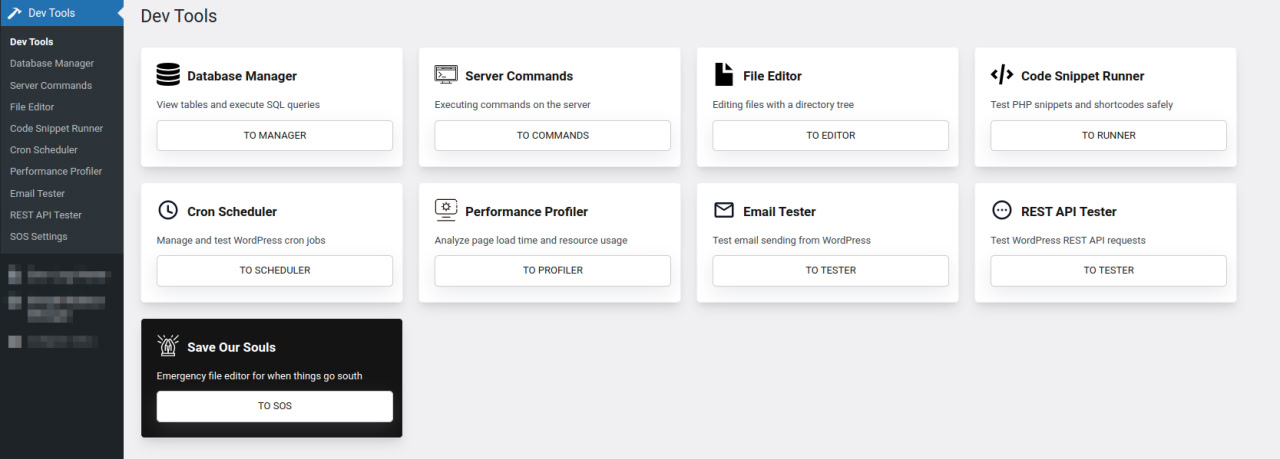
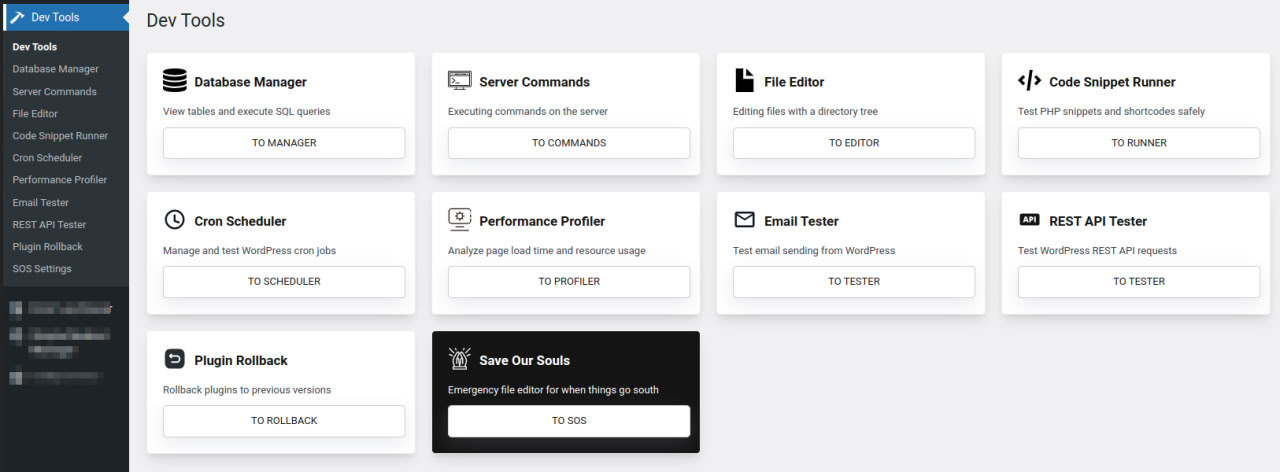
new rollback tool

diff --git a/includes/plugin-rollback/plugin-rollback.php b/includes/plugin-rollback/plugin-rollback.php
@@ -1,0 +1,191 @@
+<?php
+if (!defined('ABSPATH')) {
+    exit;
+}
+
+function dev_tools_plugin_rollback_page() {
+    if (!current_user_can('manage_options')) {
+        return;
+    }
+
+    $message = '';
+    $rollback_logs = get_option('dev_tools_rollback_logs', []);
+
+    if ($_SERVER['REQUEST_METHOD'] === 'POST' && isset($_POST['rollback_action']) && wp_verify_nonce($_POST['rollback_nonce'], 'rollback_action')) {
+        $plugin_slug = sanitize_text_field($_POST['plugin_slug']);
+        $version = sanitize_text_field($_POST['version']);
+
+        $plugins = get_plugins();
+        $plugin_file = '';
+        foreach ($plugins as $file => $data) {
+            if (strpos($file, $plugin_slug . '/') === 0) {
+                $plugin_file = $file;
+                break;
+            }
+        }
+
+        if ($plugin_file && $version) {
+            $api_url = "https://api.wordpress.org/plugins/info/1.0/$plugin_slug.json";
+            $response = wp_remote_get($api_url);
+            if (!is_wp_error($response) && wp_remote_retrieve_response_code($response) === 200) {
+                $plugin_data = json_decode(wp_remote_retrieve_body($response), true);
+                if (isset($plugin_data['versions'][$version])) {
+                    $download_url = $plugin_data['versions'][$version];
+                    $result = dev_tools_install_plugin_version($download_url, $plugin_file);
+                    if ($result) {
+                        $message = '<div class="updated"><p>Plugin rolled back to version ' . esc_html($version) . '!</p></div>';
+                        $rollback_logs[] = [
+                            'plugin' => $plugin_file,
+                            'from_version' => $plugins[$plugin_file]['Version'],
+                            'to_version' => $version,
+                            'time' => current_time('mysql')
+                        ];
+                        update_option('dev_tools_rollback_logs', array_slice($rollback_logs, -10));
+                    } else {
+                        $message = '<div class="error"><p>Failed to rollback plugin.</p></div>';
+                    }
+                } else {
+                    $message = '<div class="error"><p>Version not found.</p></div>';
+                }
+            } else {
+                $message = '<div class="error"><p>Could not fetch plugin data.</p></div>';
+            }
+        }
+    }
+
+    $plugins = get_plugins();
+    ?>
+    <div class="wrap">
+        <h1>Plugin Rollback</h1>
+        <p>Rollback plugins to previous versions.</p>
+        <?php if ($message) echo $message; ?>
+
+        <div class="tool-card" style="width: 100%; max-width: 100%;">
+            <div class="tool-card-header">
+                <div class="tool-card-ico"></div>
+                <h2>Installed Plugins</h2>
+            </div>
+            <div class="rollback-plugins">
+                <table class="wp-list-table widefat fixed striped">
+                    <thead>
+                        <tr>
+                            <th>Plugin</th>
+                            <th>Current Version</th>
+                            <th>Rollback To</th>
+                            <th>Action</th>
+                        </tr>
+                    </thead>
+                    <tbody>
+                        <?php
+                        foreach ($plugins as $file => $data) {
+                            $slug = explode('/', $file)[0];
+                            $api_url = "https://api.wordpress.org/plugins/info/1.0/$slug.json";
+                            $response = wp_remote_get($api_url);
+                            $versions = [];
+                            if (!is_wp_error($response) && wp_remote_retrieve_response_code($response) === 200) {
+                                $plugin_data = json_decode(wp_remote_retrieve_body($response), true);
+                                $versions = isset($plugin_data['versions']) ? array_keys($plugin_data['versions']) : [];
+                                usort($versions, 'version_compare');
+                                $versions = array_reverse($versions);
+                            }
+                            ?>
+                            <tr>
+                                <td><?php echo esc_html($data['Name']); ?></td>
+                                <td><?php echo esc_html($data['Version']); ?></td>
+                                <td>
+                                    <form method="post">
+                                        <?php wp_nonce_field('rollback_action', 'rollback_nonce'); ?>
+                                        <input type="hidden" name="rollback_action" value="rollback">
+                                        <input type="hidden" name="plugin_slug" value="<?php echo esc_attr($slug); ?>">
+                                        <select name="version">
+                                            <option value="">Select version</option>
+                                            <?php
+                                            foreach ($versions as $ver) {
+                                                if ($ver !== $data['Version']) {
+                                                    echo '<option value="' . esc_attr($ver) . '">' . esc_html($ver) . '</option>';
+                                                }
+                                            }
+                                            ?>
+                                        </select>
+                                </td>
+                                <td>
+                                        <input type="submit" class="tool-card-btn" value="Rollback" <?php echo empty($versions) ? 'disabled' : ''; ?>>
+                                    </form>
+                                </td>
+                            </tr>
+                            <?php
+                        }
+                        ?>
+                    </tbody>
+                </table>
+            </div>
+        </div>
+
+        <div class="tool-card" style="width: 100%; max-width: 100%;">
+            <div class="tool-card-header">
+                <div class="tool-card-ico"></div>
+                <h2>Rollback Logs</h2>
+            </div>
+            <div class="rollback-logs">
+                <table class="wp-list-table widefat fixed striped">
+                    <thead>
+                        <tr>
+                            <th>Plugin</th>
+                            <th>From Version</th>
+                            <th>To Version</th>
+                            <th>Time</th>
+                        </tr>
+                    </thead>
+                    <tbody>
+                        <?php
+                        if ($rollback_logs) {
+                            foreach (array_reverse($rollback_logs) as $log) {
+                                ?>
+                                <tr>
+                                    <td><?php echo esc_html($log['plugin']); ?></td>
+                                    <td><?php echo esc_html($log['from_version']); ?></td>
+                                    <td><?php echo esc_html($log['to_version']); ?></td>
+                                    <td><?php echo esc_html($log['time']); ?></td>
+                                </tr>
+                                <?php
+                            }
+                        } else {
+                            echo '<tr><td colspan="4">No rollbacks yet.</td></tr>';
+                        }
+                        ?>
+                    </tbody>
+                </table>
+            </div>
+        </div>
+    </div>
+    <style>
+    .rollback-plugins, .rollback-logs { padding: 10px; }
+    .rollback-plugins table, .rollback-logs table { width: 100%; }
+    .rollback-plugins th, .rollback-plugins td, .rollback-logs th, .rollback-logs td { padding: 8px; text-align: left; }
+    </style>
+    <?php
+}
+
+function dev_tools_install_plugin_version($download_url, $plugin_file) {
+    require_once ABSPATH . 'wp-admin/includes/class-wp-upgrader.php';
+    $upgrader = new Plugin_Upgrader();
+    $result = $upgrader->install($download_url, ['overwrite_package' => true]);
+    return !is_wp_error($result);
+}
+
+function dev_tools_plugin_rollback_card() {
+    ?>
+    <div class="tool-card">
+        <div class="tool-card-header">
+            <div class="tool-card-ico">
+                <svg xmlns="http://www.w3.org/2000/svg" width="800px" height="800px" viewBox="0 0 24 24" fill="none">
+<path d="M16.19 2H7.81C4.17 2 2 4.17 2 7.81V16.18C2 19.83 4.17 22 7.81 22H16.18C19.82 22 21.99 19.83 21.99 16.19V7.81C22 4.17 19.83 2 16.19 2ZM13.92 16.13H9C8.59 16.13 8.25 15.79 8.25 15.38C8.25 14.97 8.59 14.63 9 14.63H13.92C15.2 14.63 16.25 13.59 16.25 12.3C16.25 11.01 15.21 9.97 13.92 9.97H8.85L9.11 10.23C9.4 10.53 9.4 11 9.1 11.3C8.95 11.45 8.76 11.52 8.57 11.52C8.38 11.52 8.19 11.45 8.04 11.3L6.47 9.72C6.18 9.43 6.18 8.95 6.47 8.66L8.04 7.09C8.33 6.8 8.81 6.8 9.1 7.09C9.39 7.38 9.39 7.86 9.1 8.15L8.77 8.48H13.92C16.03 8.48 17.75 10.2 17.75 12.31C17.75 14.42 16.03 16.13 13.92 16.13Z" fill="#292D32"/>
+</svg>
+            </div>
+            <h2>Plugin Rollback</h2>
+        </div>
+        <p>Rollback plugins to previous versions</p>
+        <a href="<?php echo admin_url('admin.php?page=dev-tools-rollback'); ?>" class="tool-card-btn">to rollback</a>
+    </div>
+    <?php
+}

diff --git a/dev-tools.php b/dev-tools.php
@@ -3,7 +3,7 @@
 Plugin Name: Dev Tools
 Description: Developer toolkit
 Version: 1.7
-Author: V.Krykun
+Author: <a href="https://github.com/Kryku">Vladyslav Krykun</a>
 */
 
 define('DEV_TOOLS_DB_MANAGER', true);
@@ -14,6 +14,7 @@ define('DEV_TOOLS_CRON_SCHEDULER', true);
 define('DEV_TOOLS_PERFORMANCE_PROFILER', true);
 define('DEV_TOOLS_EMAIL_TESTER', true);
 define('DEV_TOOLS_REST_API_TESTER', true);
+define('DEV_TOOLS_PLUGIN_ROLLBACK', true);
 
 $sos_enabled = get_option('dev_tools_sos_enabled', false);
 
@@ -40,6 +41,9 @@ if (DEV_TOOLS_EMAIL_TESTER) {
 }
 if (DEV_TOOLS_REST_API_TESTER) {
     require_once plugin_dir_path(__FILE__) . 'includes/rest-api-tester/rest-api-tester.php';
+}
+if (DEV_TOOLS_PLUGIN_ROLLBACK) {
+    require_once plugin_dir_path(__FILE__) . 'includes/plugin-rollback/plugin-rollback.php';
 }
 if ($sos_enabled) {
     require_once plugin_dir_path(__FILE__) . 'includes/save-our-soul/save-our-soul.php';
@@ -144,6 +148,17 @@ function dev_tools_menu() {
         );
     }
     
+    if (DEV_TOOLS_PLUGIN_ROLLBACK) {
+        add_submenu_page(
+            'dev-tools',
+            'Plugin Rollback',
+            'Plugin Rollback',
+            'manage_options',
+            'dev-tools-rollback',
+            'dev_tools_plugin_rollback_page'
+        );
+    }
+    
     add_submenu_page(
         'dev-tools',
         'SOS Settings',
@@ -187,6 +202,9 @@ function dev_tools_main_page() {
             }
             if (DEV_TOOLS_REST_API_TESTER) {
                 dev_tools_rest_api_tester_card();
+            }
+            if (DEV_TOOLS_PLUGIN_ROLLBACK) {
+                dev_tools_plugin_rollback_card();
             }
             if (get_option('dev_tools_sos_enabled', false)) {
                 dev_tools_sos_card();

diff --git a/includes/rest-api-tester/rest-api-tester.php b/includes/rest-api-tester/rest-api-tester.php
@@ -199,9 +199,7 @@ function dev_tools_rest_api_tester_card() {
     <div class="tool-card">
         <div class="tool-card-header">
             <div class="tool-card-ico">
-                <svg xmlns="http://www.w3.org/2000/svg" width="800px" height="800px" viewBox="0 0 24 24" fill="none">
-                    <path d="M12 2C6.48 2 2 6.48 2 12C2 17.52 6.48 22 12 22C17.52 22 22 17.52 22 12C22 6.48 17.52 2 12 2ZM12 20C7.58 20 4 16.42 4 12C4 7.58 7.58 4 12 4C16.42 4 20 7.58 20 12C20 16.42 16.42 20 12 20ZM9 11H7V13H9V11ZM17 11H15V13H17V11ZM13 11H11V13H13V11Z" fill="#0F1729"/>
-                </svg>
+                <svg xmlns="http://www.w3.org/2000/svg" width="800px" height="800px" viewBox="0 0 24 24"><rect width="24" height="24" fill="none"/><path d="M20,6H4A2,2,0,0,0,2,8v8a2,2,0,0,0,2,2H20a2,2,0,0,0,2-2V8A2,2,0,0,0,20,6ZM9.29,14.8,9,13.73H7.16L6.87,14.8H5.17L7,9.07H9.09L11,14.8Zm6.34-3.14a1.7,1.7,0,0,1-.36.64,1.82,1.82,0,0,1-.67.44,2.75,2.75,0,0,1-1,.17h-.44V14.8H11.6V9.09h2a2.43,2.43,0,0,1,1.62.47,1.67,1.67,0,0,1,.55,1.35A2.36,2.36,0,0,1,15.63,11.66Zm2.58,3.14H16.66V9.09h1.55ZM8.45,11.53l.24.93H7.48l.24-.93c0-.13.08-.28.12-.47s.09-.38.13-.57a4.63,4.63,0,0,0,.1-.48c0,.13.07.29.11.5l.15.58Zm5.59-1a.57.57,0,0,1,.16.43.75.75,0,0,1-.11.42.59.59,0,0,1-.27.22.9.9,0,0,1-.37.07h-.31V10.34h.4A.63.63,0,0,1,14,10.51Z" fill-rule="evenodd"/></svg>
             </div>
             <h2>REST API Tester</h2>
         </div>

diff --git a/README.md b/README.md
@@ -1,6 +1,6 @@
 # Dev Tools
 ## Description
-A ~~simple~~ WordPress plugin I whipped up to make my developer life less of a headache. It’s packed with handy tools—Database Manager, Server Commands, File Editor, Code Snippet Runner, Cron Scheduler, Performance Profiler, Email Tester, REST API Tester, and an emergency SOS mode—all in one lightweight package. Built for database tweaks, server poking, file editing, code testing, cron wrangling, performance checks, email debugging, and API testing, right from the WordPress admin. Perfect when you’re stuck without server or hosting access. Free, customizable, and won’t bog down your site. Skip the bloated paid stuff!
+A ~~simple~~ WordPress plugin I whipped up to make my developer life less of a headache. It’s packed with handy tools—Database Manager, Server Commands, File Editor, Code Snippet Runner, Cron Scheduler, Performance Profiler, Email Tester, REST API Tester, Plugin Rollback, and an emergency SOS mode—all in one lightweight package. Built for database tweaks, server poking, file editing, code testing, cron wrangling, performance checks, email debugging, API testing, and plugin version rollbacks, right from the WordPress admin. Perfect when you’re stuck without server or hosting access. Free, customizable, and won’t bog down your site. Skip the bloated paid stuff!
 
 
 ![Dev Tools Main](https://raw.githubusercontent.com/Kryku/wordpress-dev-tools/refs/heads/main/screenshots/dev-tools.jpg)
@@ -14,6 +14,7 @@ A ~~simple~~ WordPress plugin I whipped up to make my developer life less of a h
 * **Performance Profiler**: Measure page load time, memory usage, and SQL queries. Pinpoint performance bottlenecks with ease.
 * **Email Tester**: Send test emails via `wp_mail` or POP3 (from "Post via Email" settings). Debug delivery issues and keep logs.
 * **REST API Tester**: Send requests to WordPress REST API (GET, POST, etc.) with headers and body. See responses and debug endpoints.
+* **Plugin Rollback**: Roll back plugin updates to previous versions when the latest one breaks your site. Pulls versions from WordPress.org.
 * ~~**Save Our Souls (SOS)**~~ - under revision: Emergency file editor for when everything’s on fire and you’ve got no server access. **Something isn't working, still figuring out the issue. On hold for now.**.
 * Enable/disable tools as you need them.
 * Clean, simple UI with zero fluff.
@@ -67,6 +68,11 @@ Find **Dev Tools** in the WordPress admin menu. It’s your hub.
   - See response status, headers, body, and execution time. Keeps a history of recent requests.
   - Perfect for debugging custom endpoints or testing API integrations.
   - ![REST API Tester](https://raw.githubusercontent.com/Kryku/wordpress-dev-tools/refs/heads/main/screenshots/dev-tools-rest-api-tester.jpg)
+- **Plugin Rollback**:
+  - Lists all installed plugins with their current versions.
+  - Pick a previous version from WordPress.org and roll back with one click.
+  - Logs rollbacks so you know what you’ve undone. Great for fixing borked updates.
+  - ![Plugin Rollback](https://raw.githubusercontent.com/Kryku/wordpress-dev-tools/refs/heads/main/screenshots/dev-tools-plugin-rollback.jpg)
 - ~~**Save Our Souls (SOS)**~~ - under revision:
   - Emergency file editor accessible via a direct URL (e.g., `/wp-content/plugins/dev-tools/includes/save-our-soul/`).
   - Enable it in settings, then use it when the site’s down and your client won’t give you FTP or hosting access.
